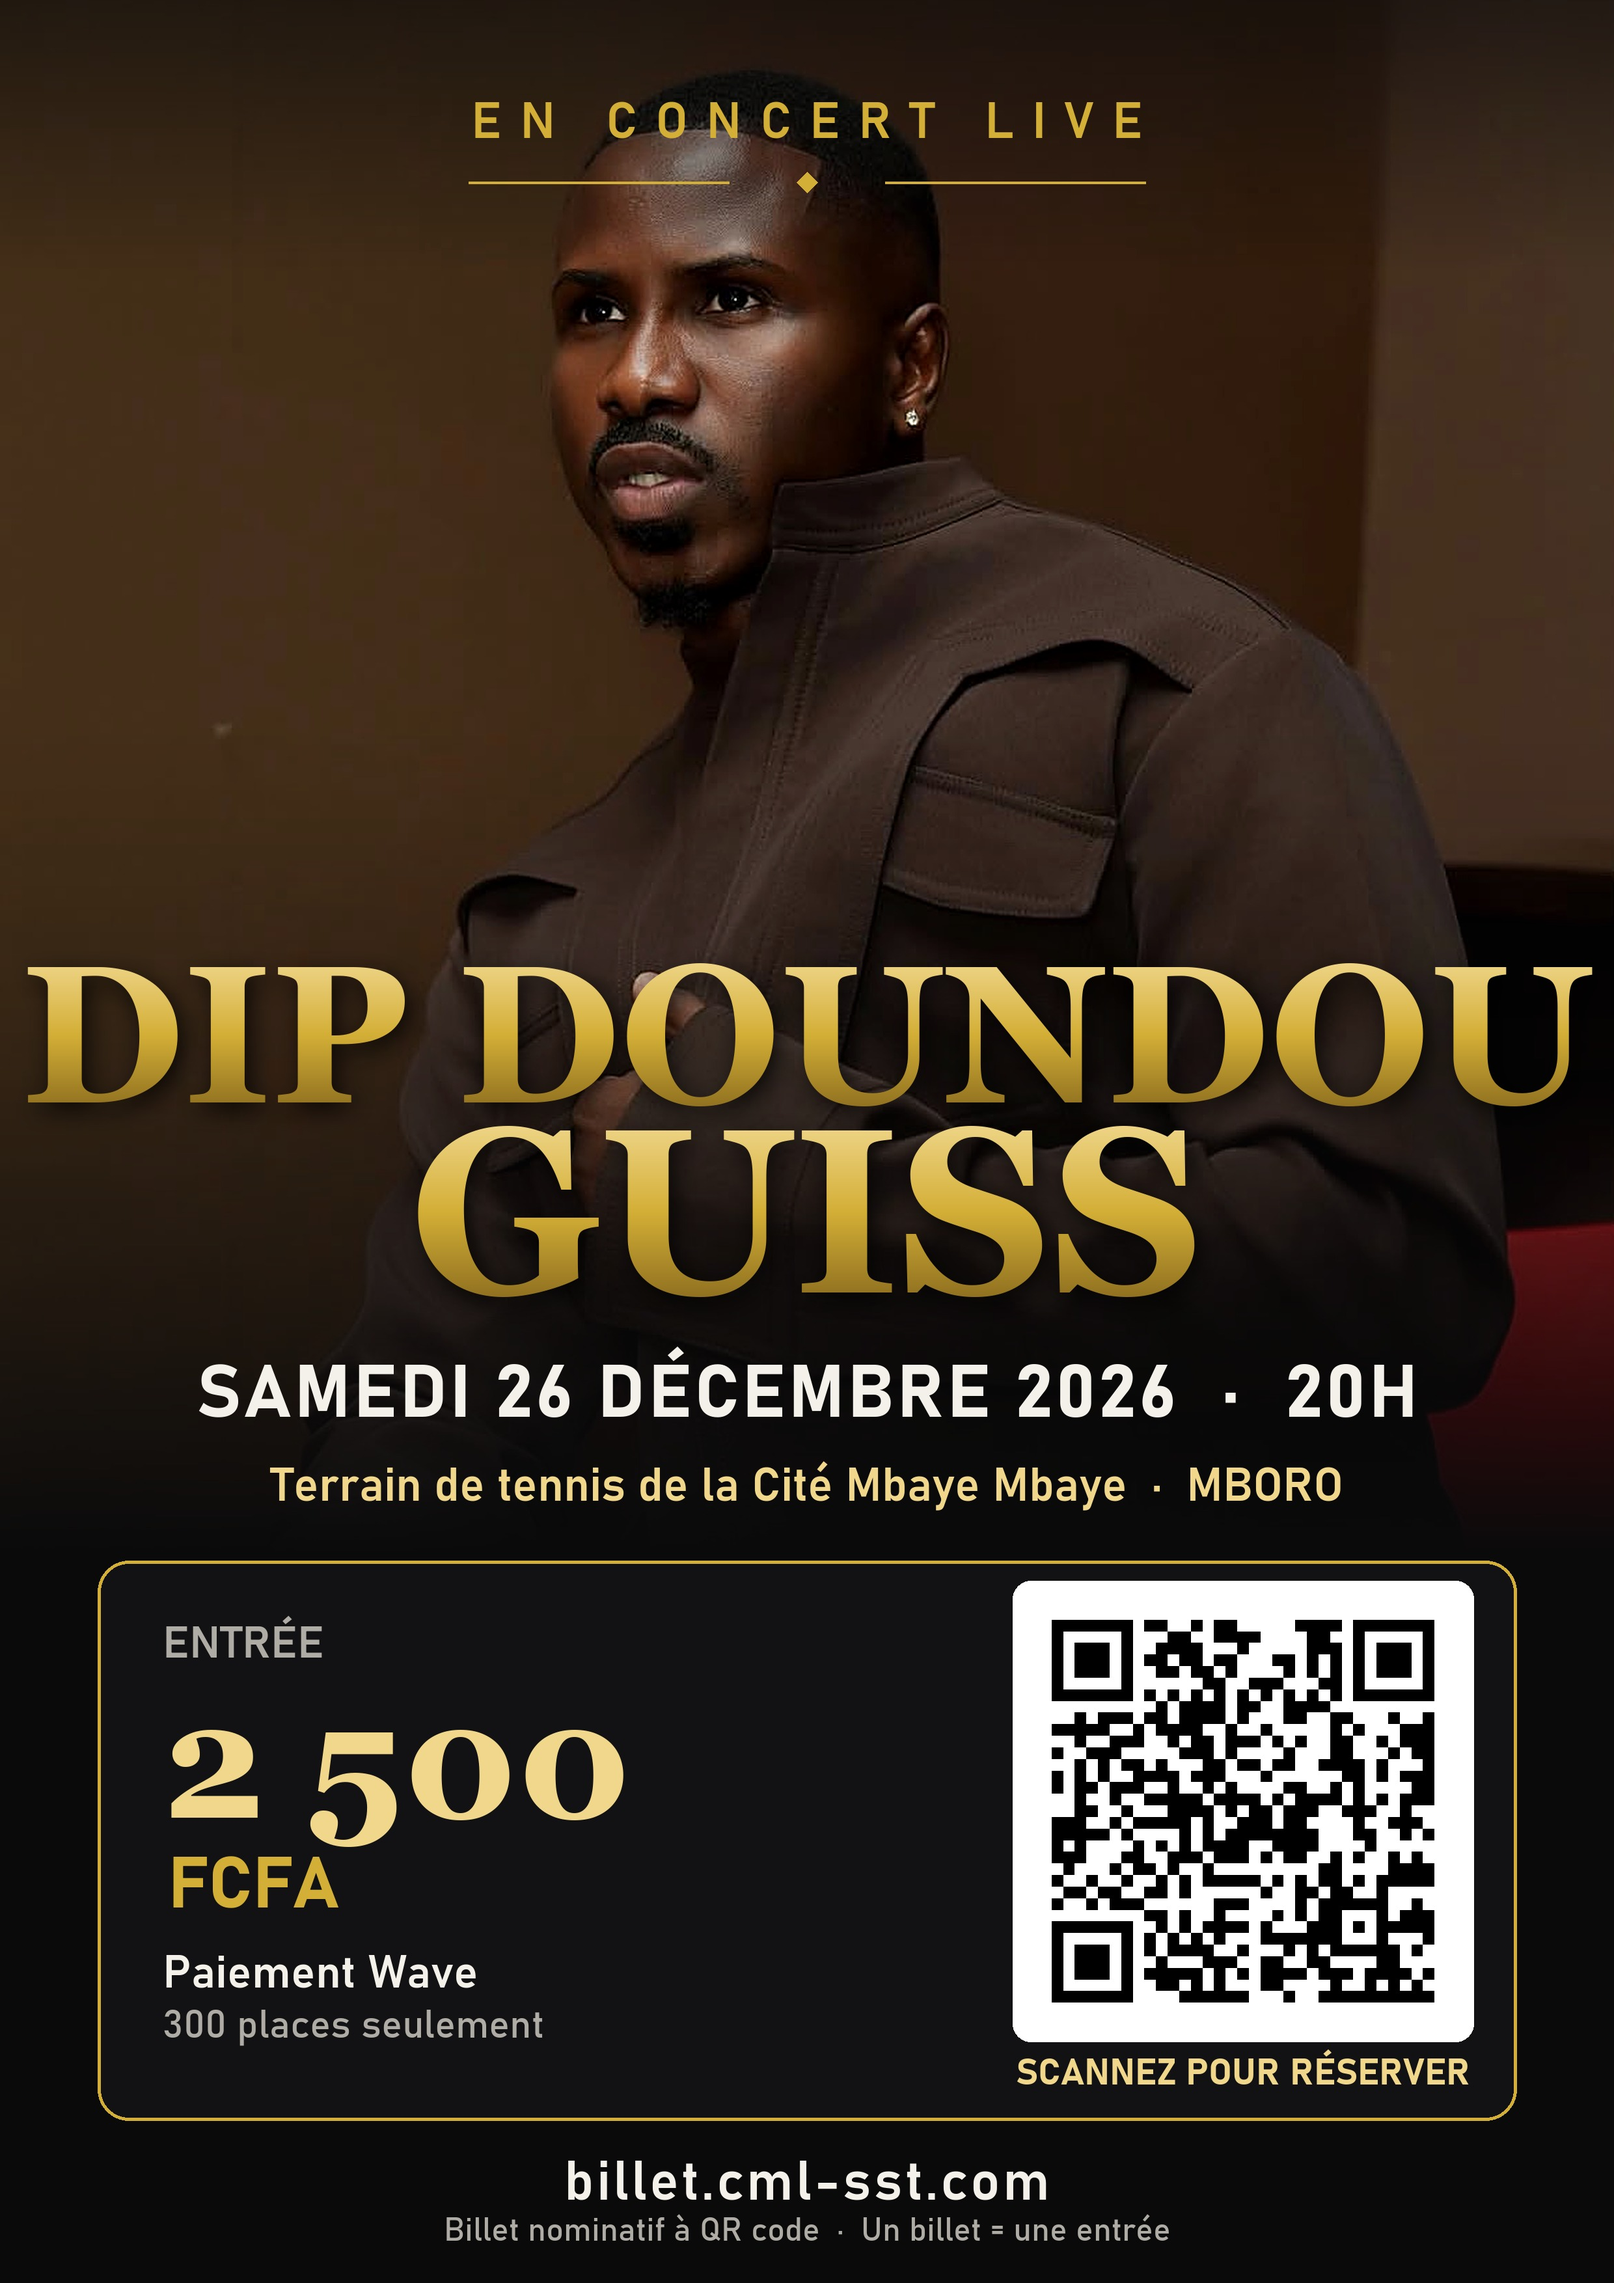
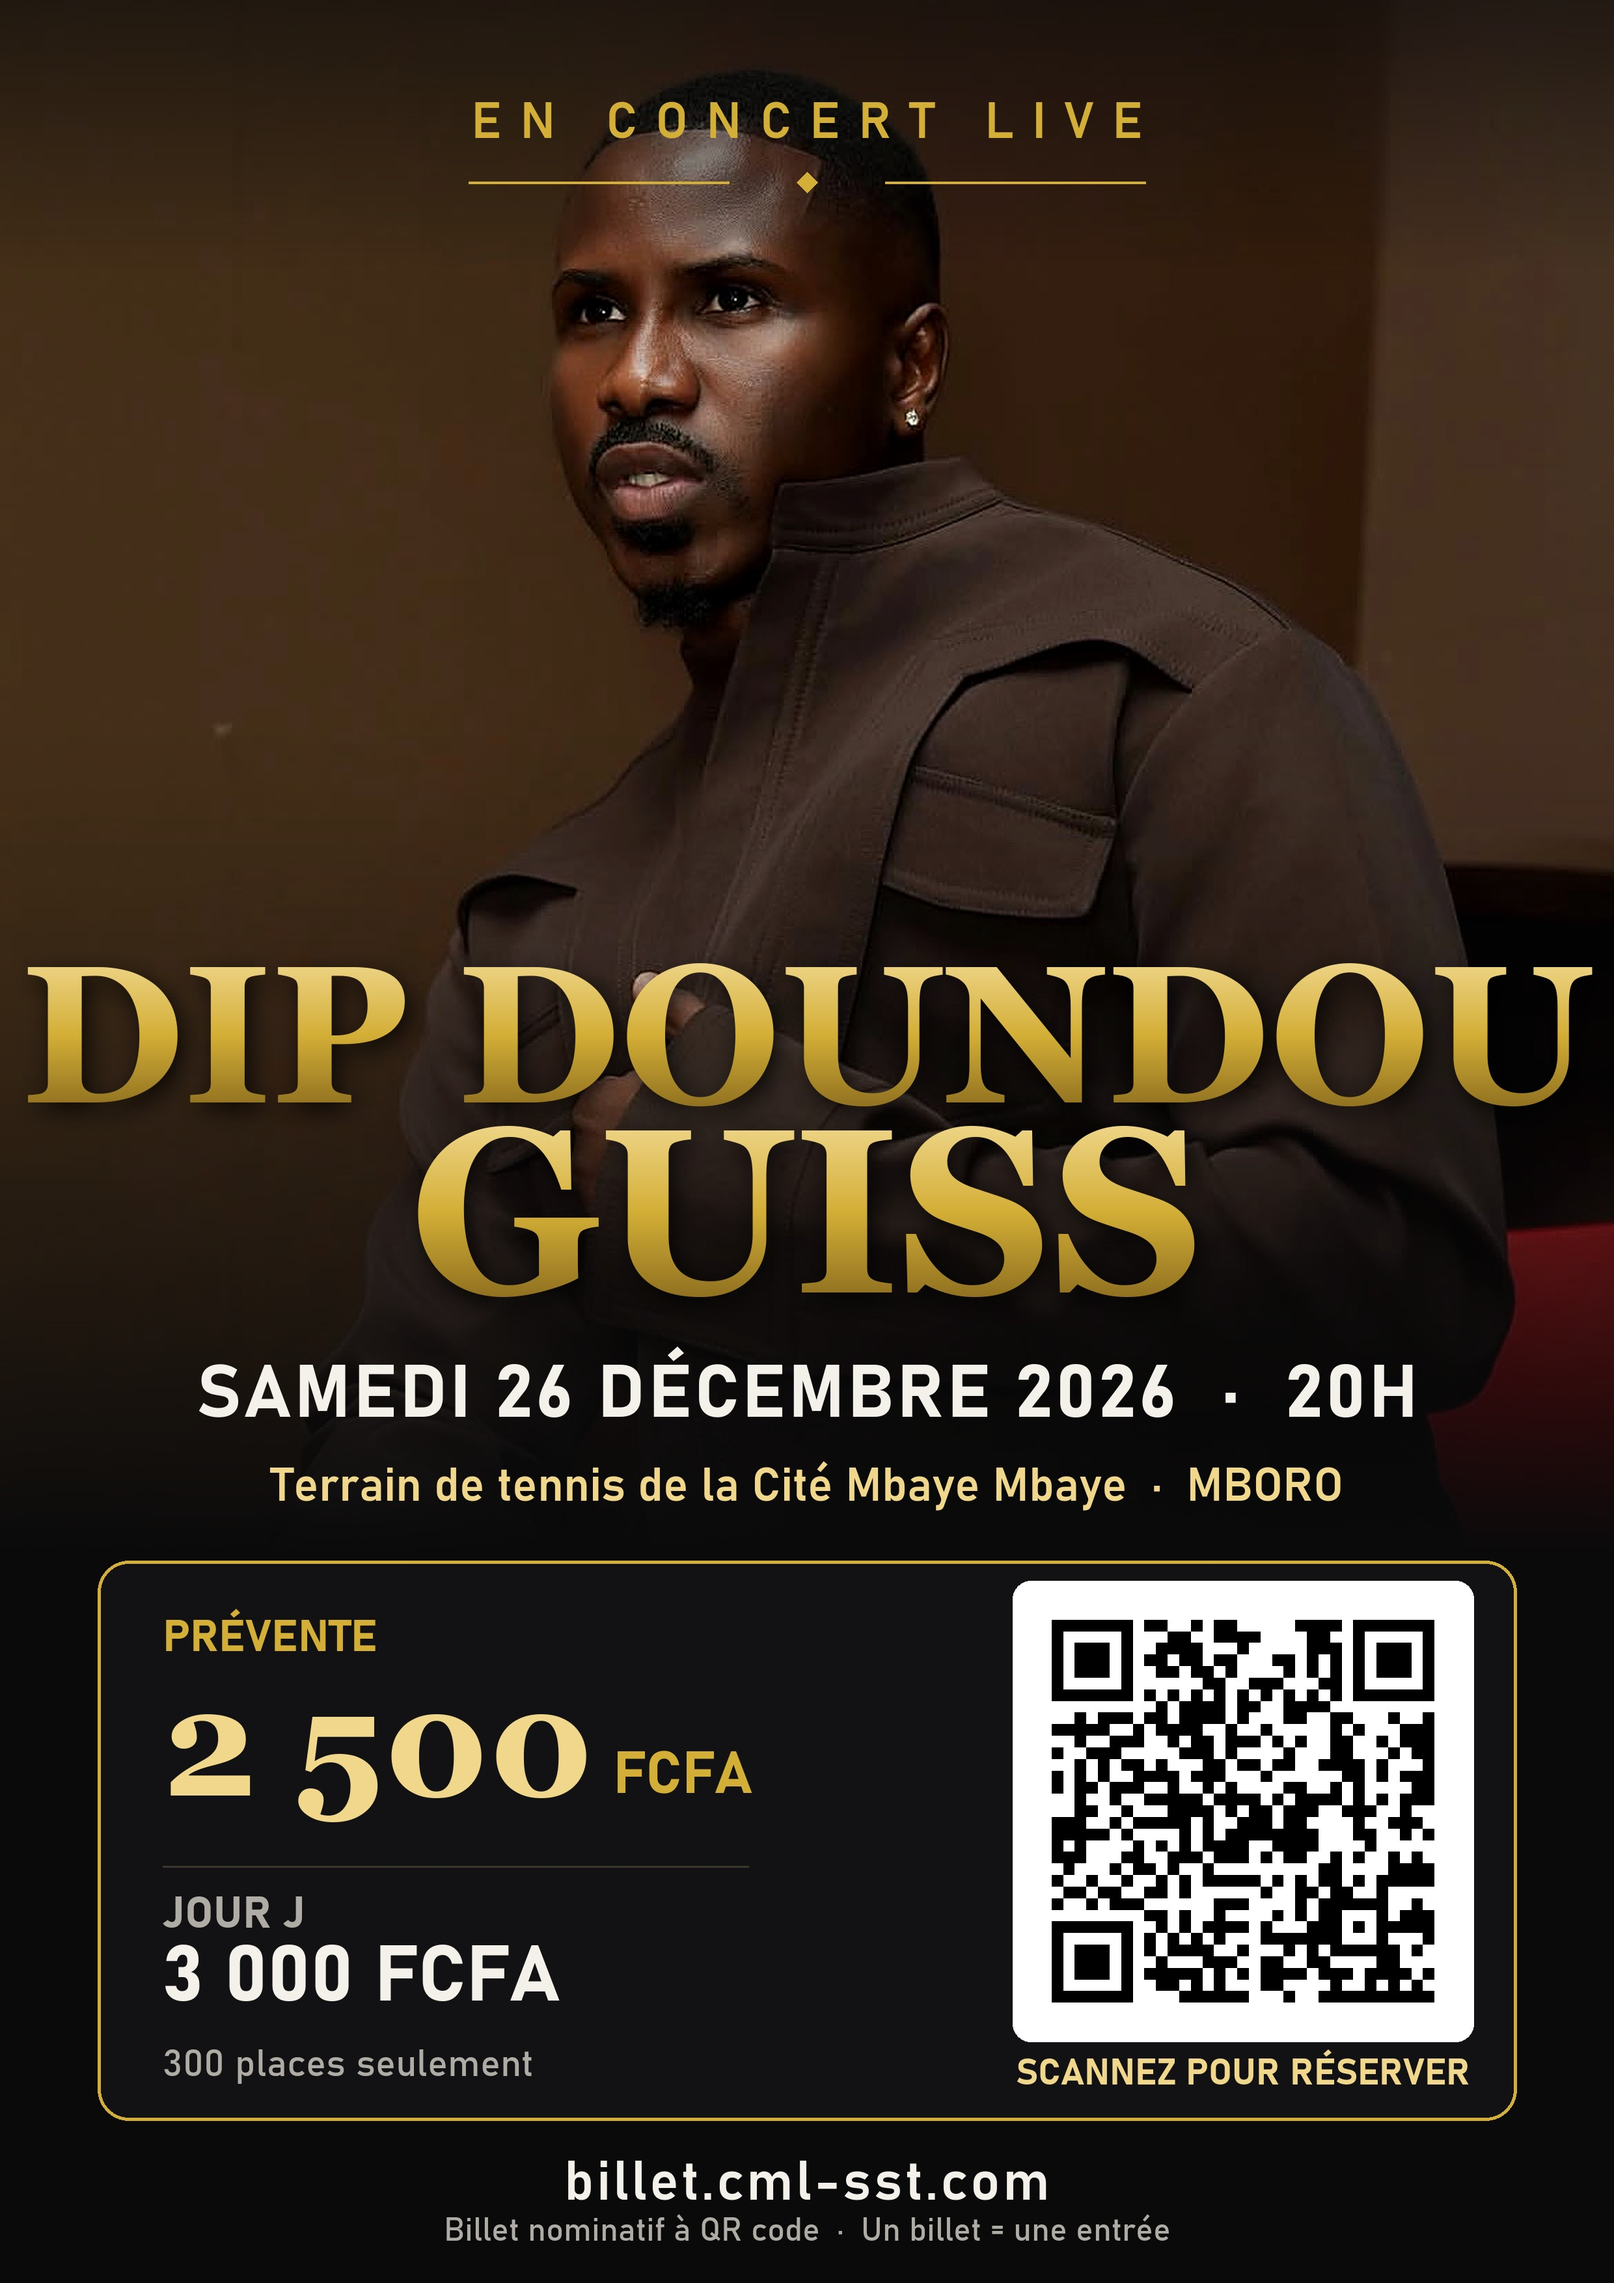
Affiche : prévente 2 500 FCFA / jour J 3 000 FCFA, sans mention Wave

Changed region(s): [[0.0931, 0.6836, 0.4657, 0.9322]]

diff --git a/outils/generer_affiche.py b/outils/generer_affiche.py
@@ -130,11 +130,17 @@ def main():
     d.rounded_rectangle([marge, haut, W - marge, haut + hauteur], radius=48, outline=OR, width=5, fill=(18, 18, 20))
 
     gx = marge + 100
-    d.text((gx, haut + 95), 'ENTRÉE', font=bahn(68, 'SemiBold'), fill=GRIS)
-    d.text((gx, haut + 165), '2 500', font=serif(250), fill=OR_CLAIR)
-    d.text((gx + 8, haut + 445), 'FCFA', font=bahn(110, 'Bold'), fill=OR)
-    d.text((gx, haut + 600), 'Paiement Wave', font=bahn(70, 'SemiBold'), fill=CREME)
-    d.text((gx, haut + 685), '300 places seulement', font=bahn(60, 'Regular'), fill=GRIS)
+    # Prévente (tarif mis en avant)
+    d.text((gx, haut + 85), 'PRÉVENTE', font=bahn(68, 'Bold'), fill=OR)
+    d.text((gx, haut + 150), '2 500', font=serif(230), fill=OR_CLAIR)
+    fcfa = bahn(90, 'Bold')
+    d.text((gx + d.textlength('2 500', font=serif(230)) + 30, haut + 285), 'FCFA', font=fcfa, fill=OR)
+    # Séparateur
+    d.line([(gx, haut + 470), (gx + 900, haut + 470)], fill=(60, 55, 45), width=3)
+    # Jour J
+    d.text((gx, haut + 510), 'JOUR J', font=bahn(68, 'Bold'), fill=GRIS)
+    d.text((gx, haut + 580), '3 000 FCFA', font=bahn(120, 'Bold'), fill=CREME)
+    d.text((gx, haut + 745), '300 places seulement', font=bahn(58, 'Regular'), fill=GRIS)
 
     # QR code (correction H : reste lisible même abîmé, froissé ou mal imprimé)
     q = qrcode.QRCode(error_correction=qrcode.constants.ERROR_CORRECT_H, border=2, box_size=24)
